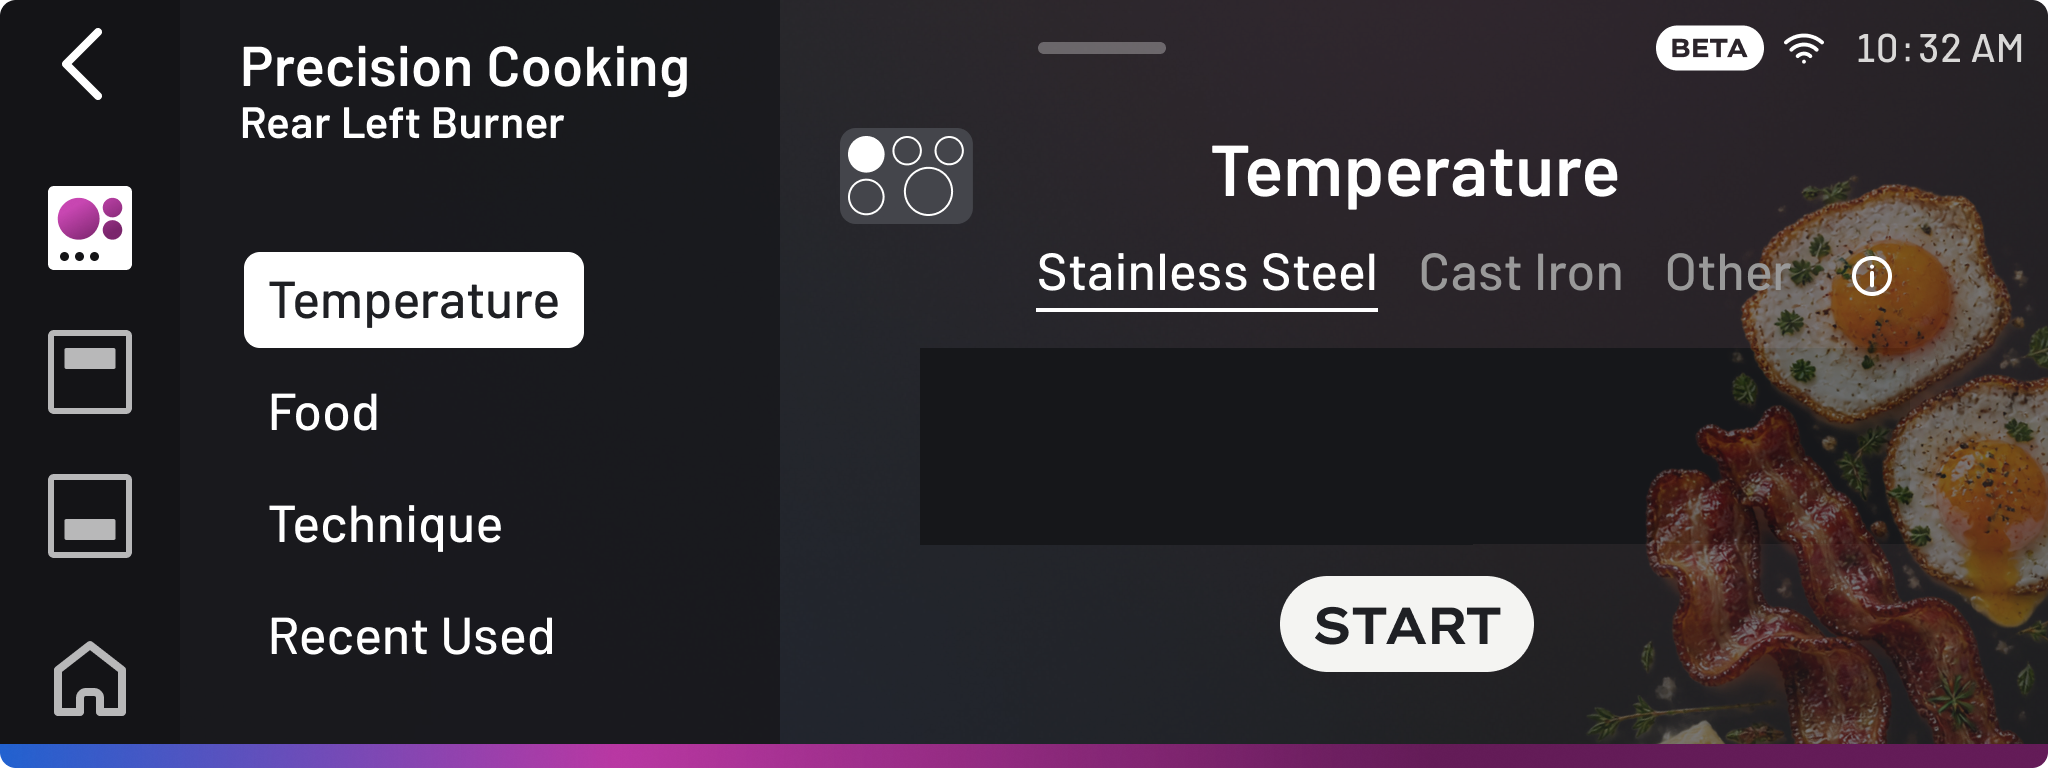
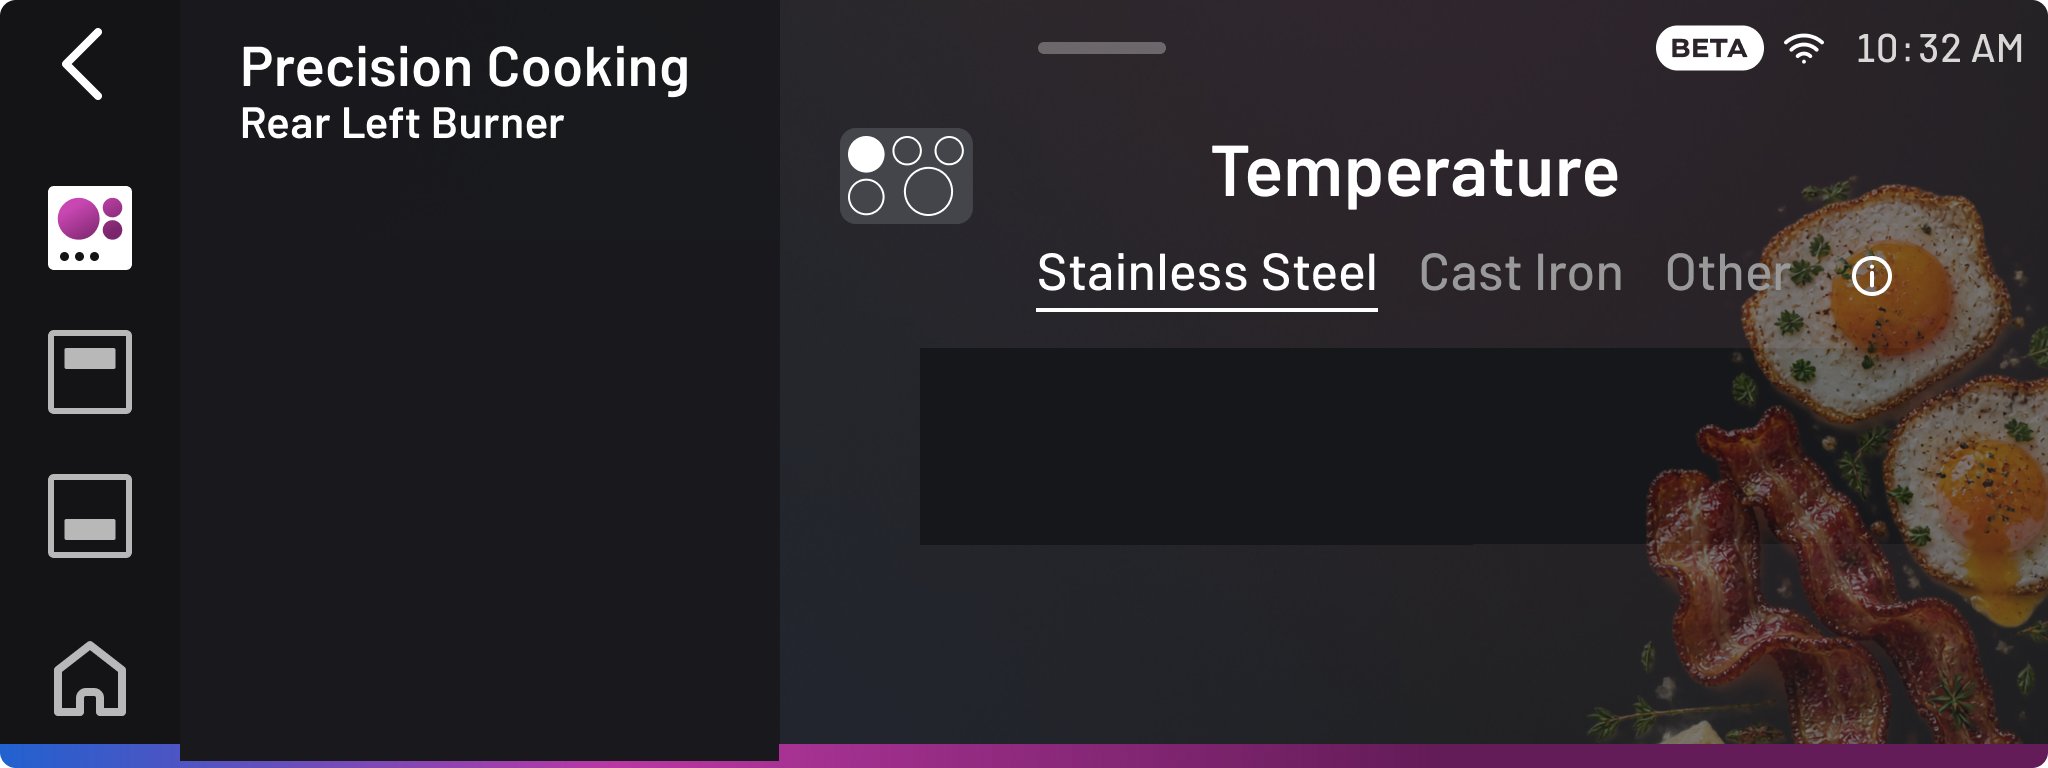
fix(task3): restore visible left side drawer on 3B-temperature and align START button with active temperature digits

diff --git a/index.html b/index.html
@@ -185,7 +185,7 @@
               <button type="button" class="t2-back-btn" id="t2BtnBack" aria-label="Back to Cooktop"></button>
 
               <!-- SIDE DRAWER NAVIGATION: Temperature / Food / Technique / Recent Used (Figma 3198:27479) -->
-              <nav class="pc-side-drawer-nav has-baked-temp" id="t2SideDrawer">
+              <nav class="pc-side-drawer-nav" id="t2SideDrawer">
                 <button type="button" class="pc-drawer-item is-active" data-t2tab="temperature" id="t2TabTemperature">Temperature</button>
                 <button type="button" class="pc-drawer-item" data-t2tab="food" id="t2TabFood">Food</button>
                 <button type="button" class="pc-drawer-item" data-t2tab="technique" id="t2TabTechnique">Technique</button>
@@ -578,12 +578,12 @@
 
             <!-- 4. SCREEN: 3B-PCTEMPERATURE (HORIZONTAL PICKER & START BUTTON - FIGMA 3198:27479) -->
             <div class="t3-screen" id="t3ScreenTemperature" hidden>
-              <img class="t3-screen-bg" src="./assets/task3-pc-bg-temperature.png" alt="Precision Cooking Temperature">
+              <img class="t3-screen-bg" src="./assets/task3-pc-bg-temperature.png?v=20261105-clean" alt="Precision Cooking Temperature">
               <!-- Back button (< Precision Cooking) -->
               <button type="button" class="t3-back-btn" id="t3BtnBackFromTemp" aria-label="Back to Burners"></button>
 
               <!-- SIDE DRAWER NAVIGATION: Temperature / Food / Technique / Recent Used (Figma 3198:27479) -->
-              <nav class="pc-side-drawer-nav has-baked-temp" id="t3SideDrawerTemp">
+              <nav class="pc-side-drawer-nav" id="t3SideDrawerTemp">
                 <button type="button" class="pc-drawer-item is-active" data-t3tab="temperature" id="t3TabBtnTempFromTemp">Temperature</button>
                 <button type="button" class="pc-drawer-item" data-t3tab="food" id="t3TabBtnFoodFromTemp">Food</button>
                 <button type="button" class="pc-drawer-item" data-t3tab="technique" id="t3TabBtnTechFromTemp">Technique</button>
@@ -604,7 +604,7 @@
               </div>
 
               <!-- START Button (Figma Node 3198:27479) -->
-              <button type="button" class="t3-temp-start-btn" id="t3BtnStartTemp" aria-label="Start Temperature"></button>
+              <button type="button" class="t3-temp-start-btn" id="t3BtnStartTemp" aria-label="Start Temperature">START</button>
               <!-- Keypad Switcher Button (hidden to match Figma 3198:27479) -->
               <button type="button" class="t3-temp-keypad-btn" id="t3BtnKeypadFromTemp" aria-label="Switch to Keypad" style="display:none;"></button>
             </div>

diff --git a/styles.css b/styles.css
@@ -1946,31 +1946,6 @@ input,
   top: 294px;
 }
 
-/* For screens with baked-in Temperature active state (Figma 3198:27479) */
-.pc-side-drawer-nav.has-baked-temp .pc-drawer-item {
-  color: transparent;
-  background: transparent;
-}
-
-.pc-side-drawer-nav.has-baked-temp .pc-drawer-item.is-active {
-  color: transparent !important;
-  background: transparent !important;
-  box-shadow: none !important;
-}
-
-/* If user switches away from temperature on a has-baked-temp screen */
-.pc-side-drawer-nav.has-baked-temp .pc-drawer-item:not(.is-active)[data-t2tab="temperature"],
-.pc-side-drawer-nav.has-baked-temp .pc-drawer-item:not(.is-active)[data-t3tab="temperature"] {
-  background: #19191d !important;
-  color: rgba(255, 255, 255, 0.85) !important;
-}
-
-.pc-side-drawer-nav.has-baked-temp .pc-drawer-item.is-active:not([data-t2tab="temperature"]):not([data-t3tab="temperature"]) {
-  background: #ffffff !important;
-  color: #16171a !important;
-  box-shadow: 0 2px 10px rgba(0, 0, 0, 0.25) !important;
-}
-
 /* Cookware Tabs (Stainless Steel / Cast Iron / Other - Figma 3198:27479) */
 .pc-cookware-tabs {
   position: absolute;
@@ -3170,23 +3145,33 @@ input,
   opacity: 1;
 }
 
-/* Start Button on Temperature Screen (Figma node 3198:27479) */
+/* Start Button on Temperature Screen (Figma node 3198:27479 - aligned with active temperature digits) */
 .t3-temp-start-btn {
   position: absolute;
-  left: 550px;
+  left: 532px;
   top: 288px;
   width: 127px;
   height: 48px;
-  background: transparent;
+  background: #ffffff;
+  color: #16171a;
   border: none;
   cursor: pointer;
   outline: none;
-  border-radius: 999px;
+  border-radius: 24px;
+  font-family: var(--roux-typography-subtitle-small-font-family);
+  font-size: 19px;
+  font-weight: 700;
+  letter-spacing: 0.5px;
+  display: flex;
+  align-items: center;
+  justify-content: center;
+  box-shadow: 0 4px 14px rgba(0, 0, 0, 0.35);
   z-index: 55;
-  transition: transform 0.12s ease;
+  transition: transform 0.12s ease, background-color 0.15s ease, box-shadow 0.15s ease;
 }
 .t3-temp-start-btn:active {
   transform: scale(0.95);
+  background-color: #e5e5e5;
 }
 
 /* Keypad Button on Temperature Screen (Figma node 3017:25518) */

diff --git a/app.js b/app.js
@@ -3076,6 +3076,22 @@
           playSound("touch");
         }
       }
+
+      // Align START button with the biggest temperature number (.t3-item-num)
+      if (els.t3BtnStartTemp && els.t3ScreenTemperature) {
+        const numEl = closestItem.querySelector(".t3-item-num");
+        if (numEl) {
+          const numRect = numEl.getBoundingClientRect();
+          const screenRect = els.t3ScreenTemperature.getBoundingClientRect();
+          if (screenRect.width > 0) {
+            const scale = screenRect.width / 934;
+            const numCenterX = ((numRect.left - screenRect.left) + numRect.width / 2) / scale;
+            const btnWidth = els.t3BtnStartTemp.offsetWidth || 127;
+            const targetLeft = Math.round(numCenterX - btnWidth / 2);
+            els.t3BtnStartTemp.style.left = `${targetLeft}px`;
+          }
+        }
+      }
     }
   }
 
